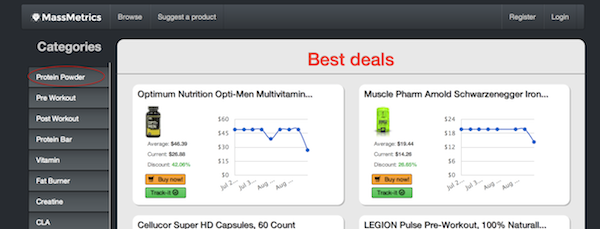
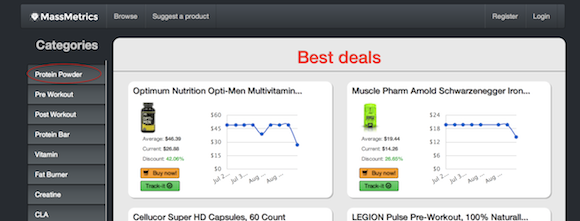
styling changes for responsiveness

diff --git a/app/assets/stylesheets/instructions.css.scss b/app/assets/stylesheets/instructions.css.scss
@@ -27,22 +27,22 @@
 .cards-wrapper {
   .instruction-heading {
     color: black;
-    font-size: 16pt;
     font-weight: bold;
     padding-bottom: 10px;
   }
+  .instructions{
+    color: black;
+    font-weight: normal;
+  }
+
 }
 
-.instructions{
-  color: black;
-  font-size: 13pt
-}
 
 .instruction-photo {
   img {
     margin-top: 20px;
     margin-right: 10px;
-    margin-bottom: 10px;
+    margin-bottom: 20px;
     border-radius: 10px;
     box-shadow: 2px 2px 0 rgba(0, 0, 0, 0.4);
     border: 2px solid black;

diff --git a/app/assets/stylesheets/side_nav.css.scss b/app/assets/stylesheets/side_nav.css.scss
@@ -31,7 +31,6 @@
 
 .col-xs-2 {
   .category-heading {
-    font-size: 25px;
     margin-bottom: 0px;
     margin-top: -20px;
   }
